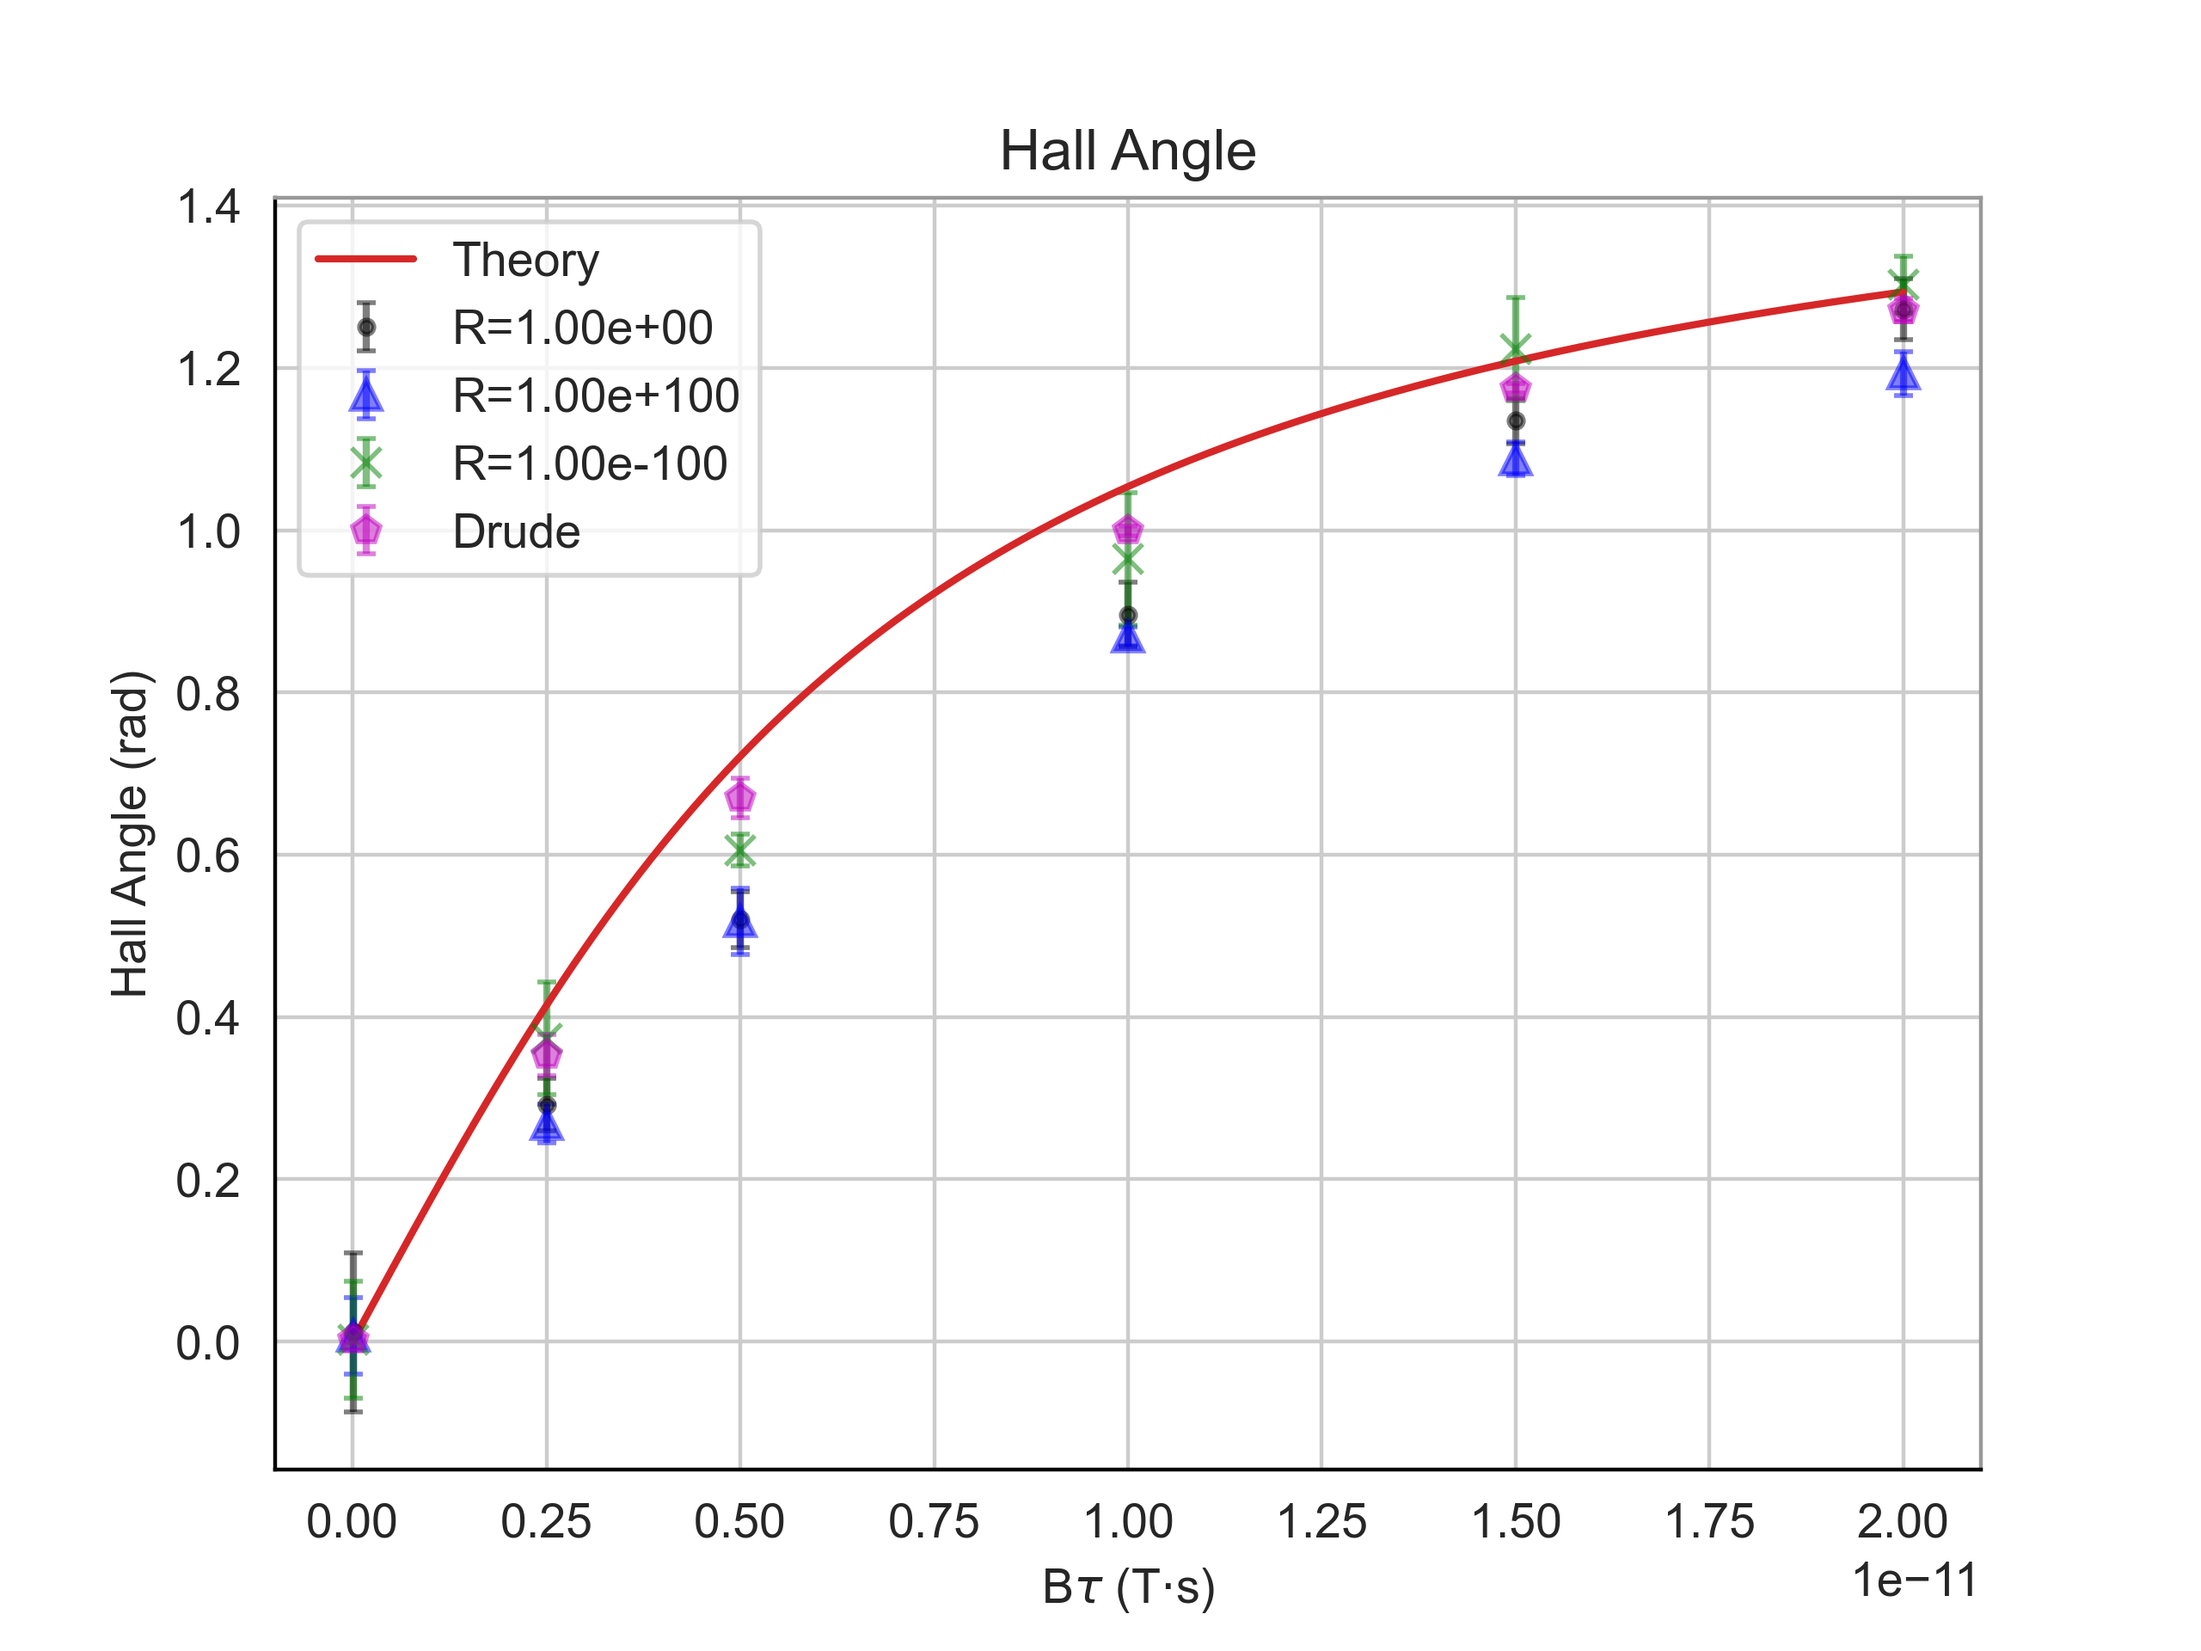
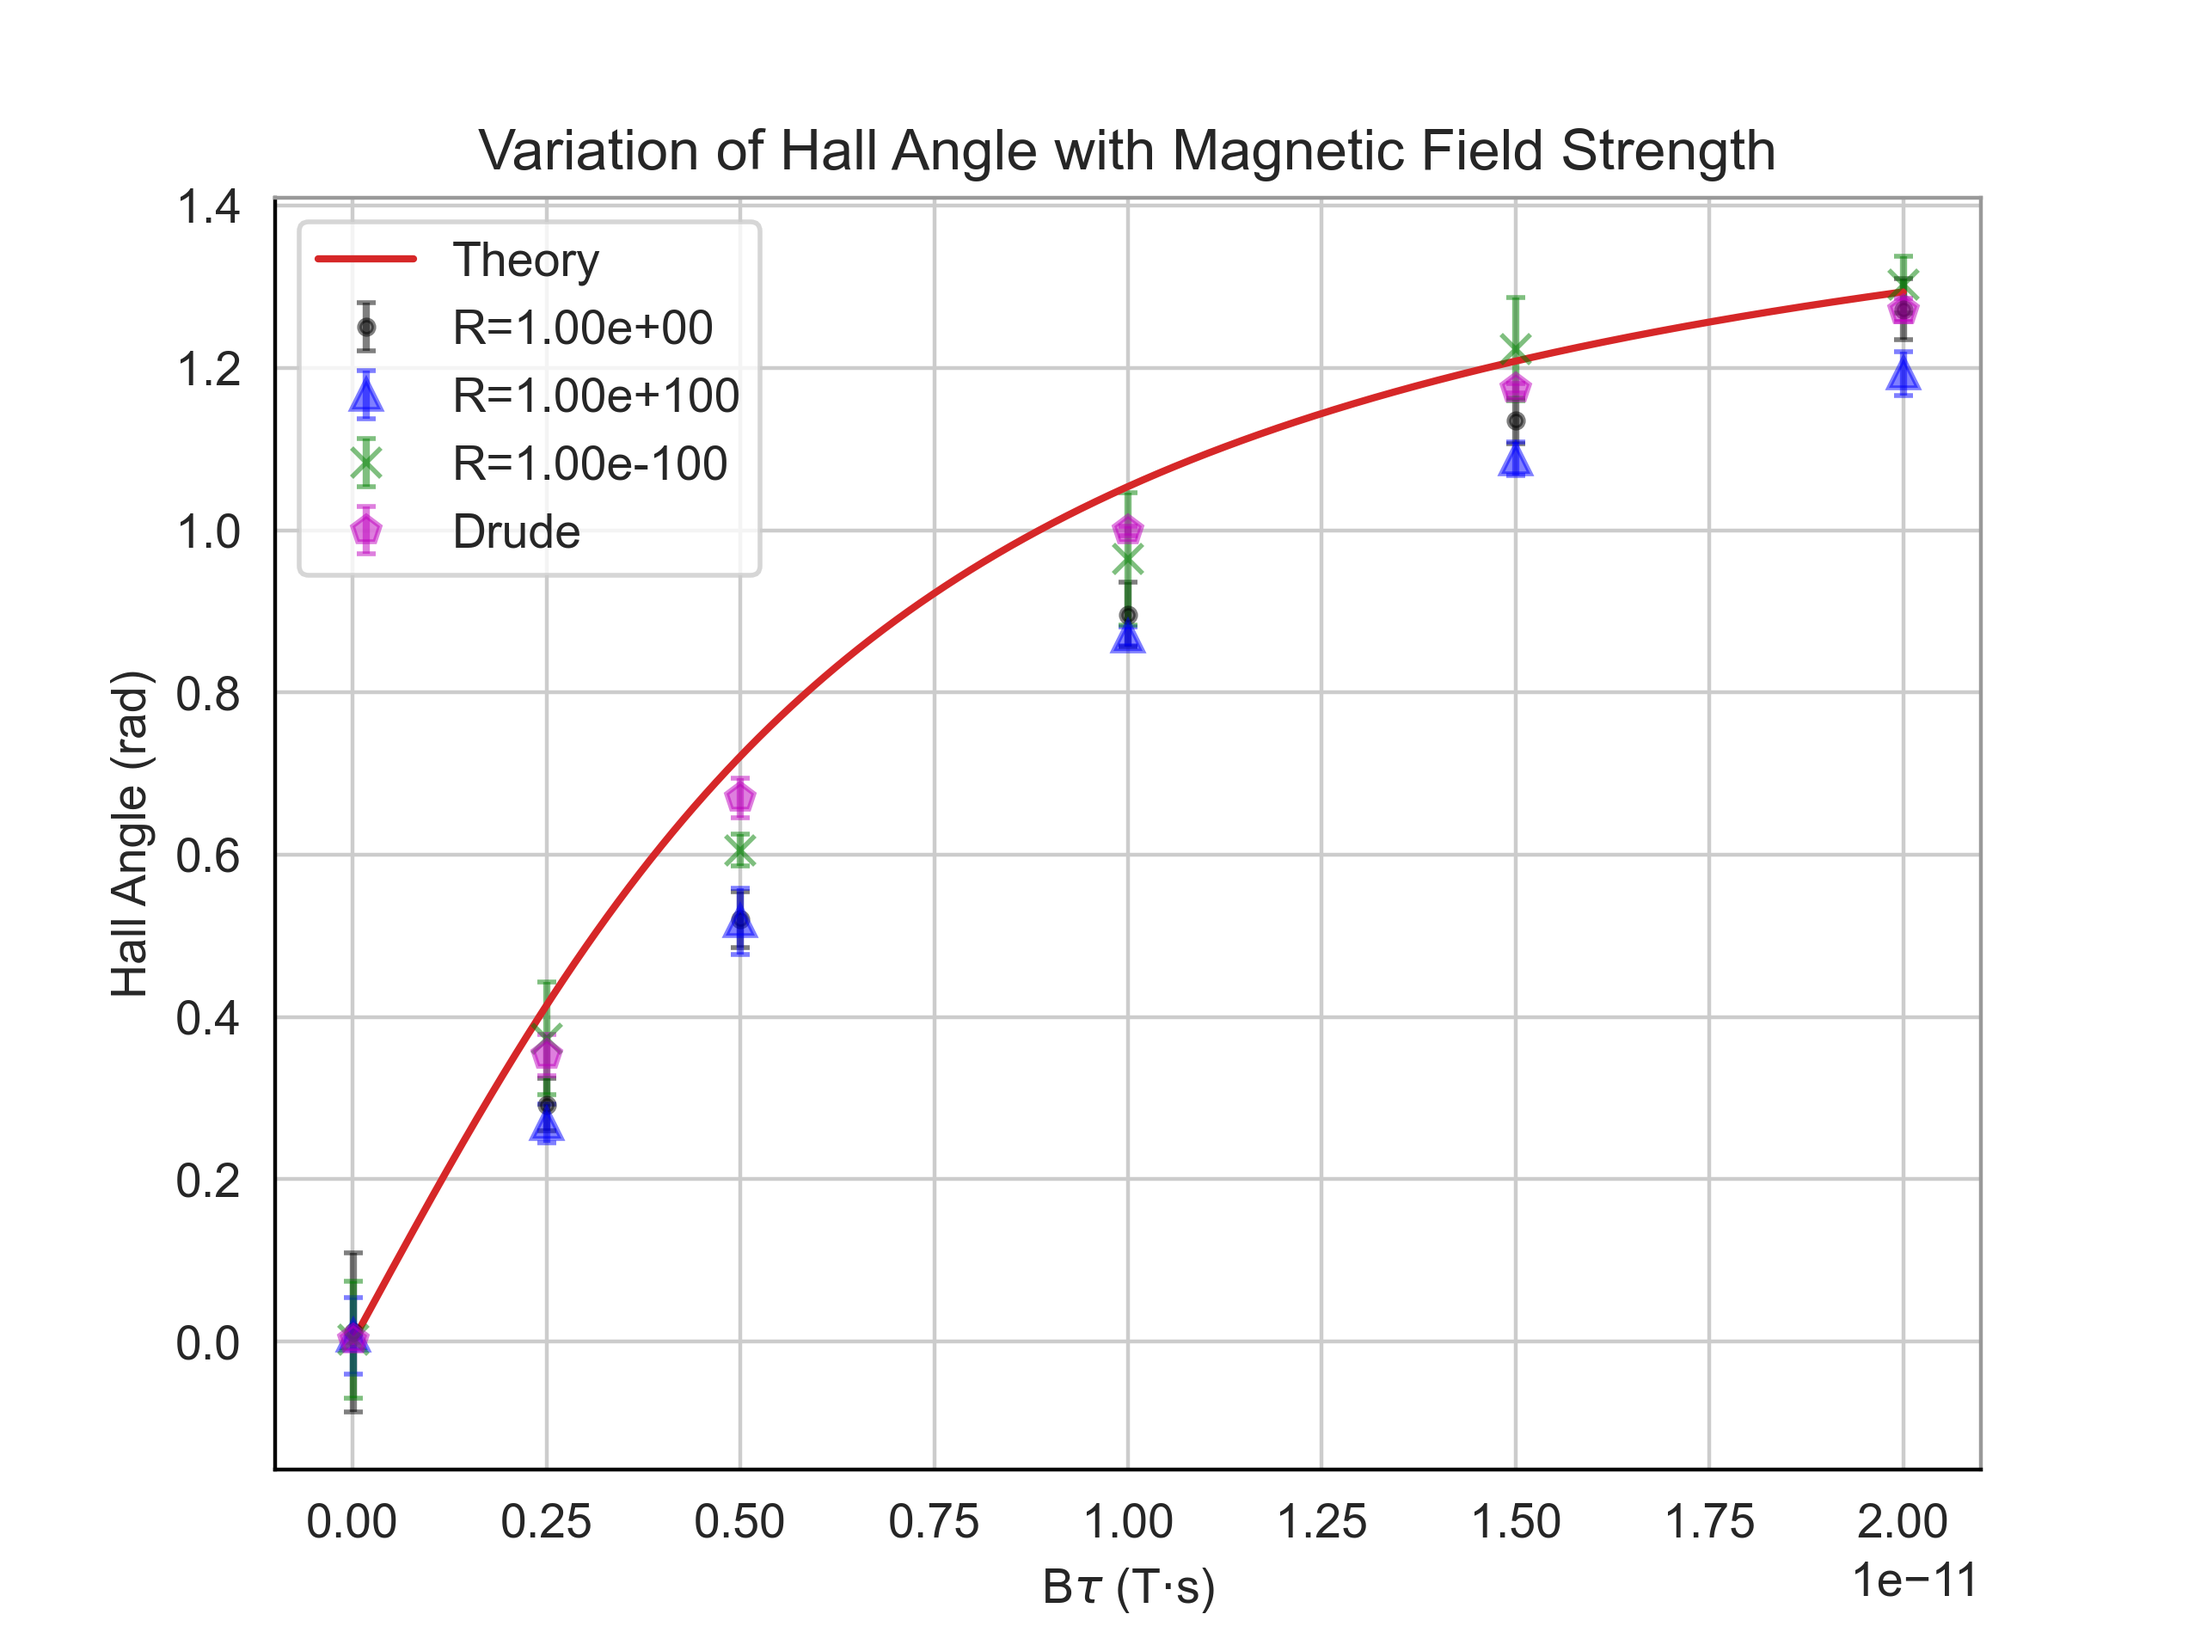
a

Changed region(s): [[0.2188, 0.0625, 0.8125, 0.125]]

diff --git a/Comparing_Drift_vel.py b/Comparing_Drift_vel.py
@@ -97,7 +97,7 @@ handles, labels = plt.gca().get_legend_handles_labels()
 order = [6,5,4,3,2,1,7,0]
 ax.legend([handles[idx] for idx in order],[labels[idx] for idx in order])
 
-ax.set_title('Sommerfeld Simulation \n Drift velocity against E-field')
+ax.set_title('Variation of Drift Velocity with Electric Field Strength')
 ax.set_xlabel('E-field (V/m)')
 ax.set_ylabel('Drift vel (m/s)')
 plt.savefig("Drift_vel_against_E.png", dpi=400)

diff --git a/Hall_Angle.py b/Hall_Angle.py
@@ -77,7 +77,7 @@ ax.errorbar(angle_d[:,0], angle_d[:,1], angle_d[:,2], linestyle='',
                  markerfacecolor=colors[-1], alpha = 0.5)
 
 ax.legend()
-ax.set_title('Hall Angle')
+ax.set_title('Variation of Hall Angle with Magnetic Field Strength')
 ax.set_xlabel(r'B$\tau$ (T$\cdot$s)')
 ax.set_ylabel('Hall Angle (rad)')
 plt.savefig("Hall_angle.png",dpi=400)
